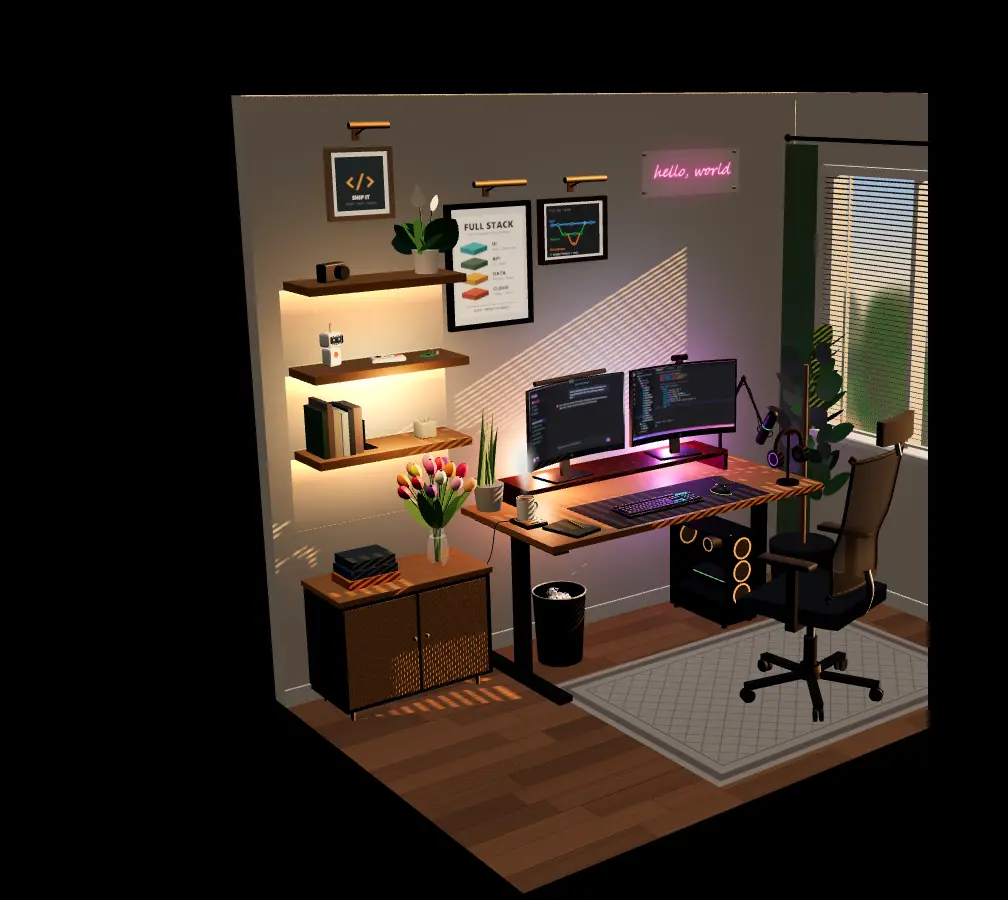
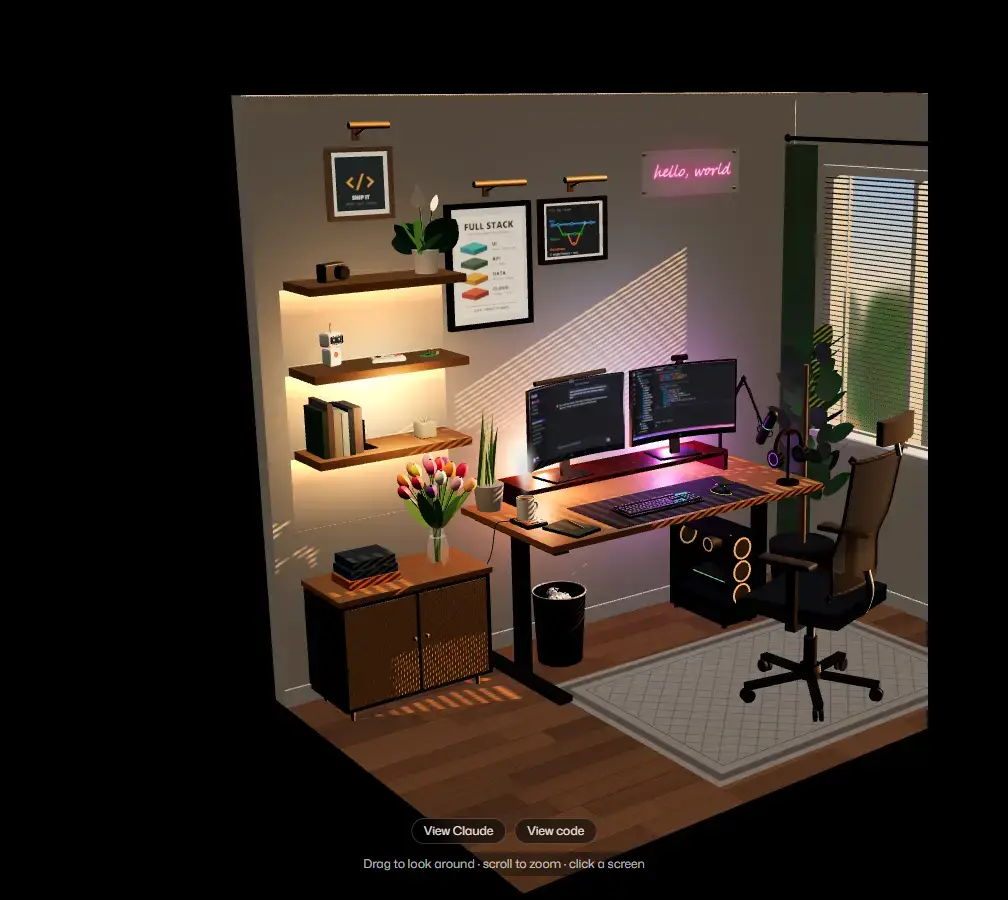
Lower the room on desktop; new README hero screenshot
- On xl the camera aims 30 cm higher, so the room sits about 60 px
  lower and the nav (Skills, Contact me) no longer runs across it. The
  hint and buttons stay on the first screen. Tablet and phone unchanged.
- Re-captured the wide loading still to match.
- README: the hero image is now a 2880x1800 PNG taken with Playwright
  at 2x of the code-built studio (was a screenshot of the old template
  room), with alt text describing it. Removes hero-2026-10.jpg.

Changed region(s): [[0.369, 0.9022, 0.6458, 0.9956]]

diff --git a/src/components/models/hero_models/HeroExperience.jsx b/src/components/models/hero_models/HeroExperience.jsx
@@ -11,6 +11,9 @@ import StudioLights from "./studio/StudioLights";
 // The camera orbits the middle of the room all the way around; walls between the
 // camera and the room cut away (see Studio.jsx). Polar limits keep it above the floor.
 const TARGET = [0.0, 1.0, -0.05];
+// On xl the nav runs across the top of the room; aiming 30 cm higher sits the room about
+// 60 px lower, clear of the nav, while the hint and buttons stay on the first screen
+const WIDE_TARGET = [0.0, 1.3, -0.05];
 
 // On xl the canvas sits behind the headline. Shifting the film (not the orbit target)
 // moves the room to the right while it still spins around its own center.
@@ -43,6 +46,7 @@ const HeroExperience = () => {
   const isWide = useMediaQuery({ query: "(min-width: 1280px)" }); // Tailwind's xl, where text and room share the row
   // Phones show the room in a nearly square box, so start the camera farther back
   const pull = isMobile ? 1.18 : 1;
+  const target = isWide ? WIDE_TARGET : TARGET;
   const isTouch = useMediaQuery({ query: "(pointer: coarse)" });
   // Clicking a monitor zooms in on its screen ("claude" or "code"); clicking it again, Esc,
   // a click elsewhere, or the button zooms back out
@@ -65,7 +69,7 @@ const HeroExperience = () => {
       role="img"
       aria-label="3D model of Alex's developer studio: an oak desk with two curved monitors showing Claude and VS Code, an RGB keyboard, a bookshelf with plants, a neon sign reading hello, world, and late-afternoon sun through the blinds."
       shadows
-      camera={{ position: [TARGET[0] - 4.0 * pull, TARGET[1] + 1.65 * pull, TARGET[2] + 5.0 * pull], fov: 35 }}
+      camera={{ position: [target[0] - 4.0 * pull, target[1] + 1.65 * pull, target[2] + 5.0 * pull], fov: 35 }}
       gl={{ powerPreference: 'high-performance', antialias: !isMobile }} // Disable antialiasing on mobile for better performance
       dpr={isMobile ? 1 : [1, 1.5]} // Lower resolution on mobile, capped at 1.5x elsewhere
       performance={{ min: 0.5 }} // Allow performance scaling
@@ -76,7 +80,7 @@ const HeroExperience = () => {
       <CameraFocus focus={focus} isWide={isWide} />
       <OrbitControls
         makeDefault
-        target={TARGET}
+        target={target}
         enablePan={false}
         enableZoom={true}
         minDistance={3.5}

diff --git a/README.md b/README.md
@@ -1,6 +1,6 @@
 <div align="center">
-  <a href="docs/hero-2026-10.jpg" title="Click to see full size">
-    <img src="docs/hero-2026-10.jpg" alt="Hero section of alexportfolio.net: the headline 'Full-stack engineer who ships real products.' next to an interactive 3D room" />
+  <a href="docs/hero-2026-11.png" title="Click to see full size">
+    <img src="docs/hero-2026-11.png" alt="Hero section of alexportfolio.net: the headline 'Full-stack engineer who ships real products.' next to an interactive 3D developer studio, with two curved monitors running Claude and VS Code, a bookshelf, plants, a neon sign and late-afternoon sun through the blinds" />
   </a>
   <p><sub>Click the screenshot to see it full size.</sub></p>
 
